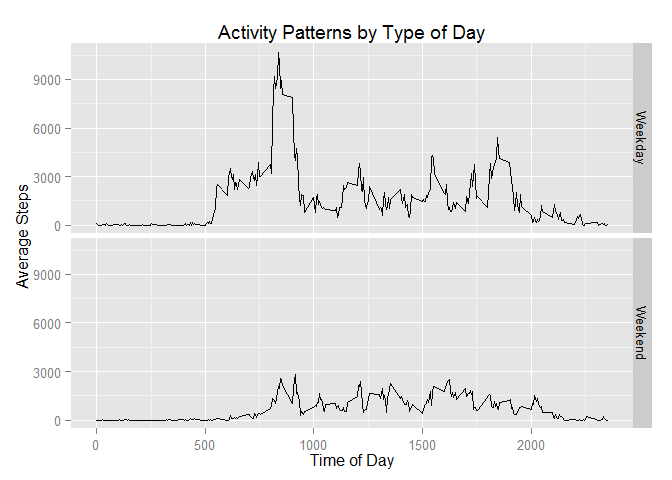
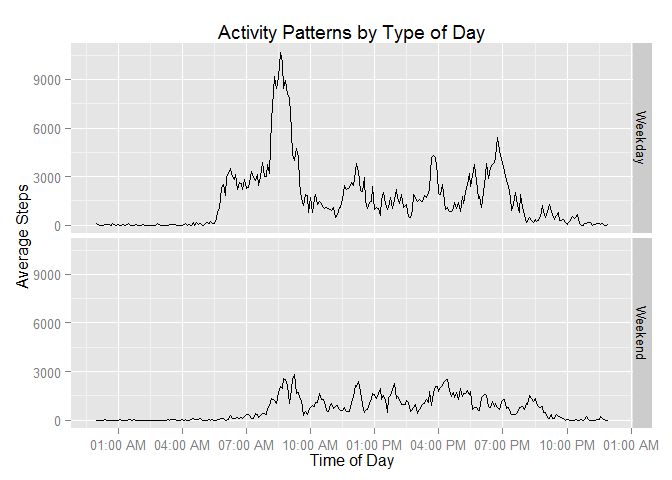
Changed graphs to treat interval as a time instead of an integer

diff --git a/PA1_template.html b/PA1_template.html
@@ -56,7 +56,7 @@ if (window.hljs && document.readyState && document.readyState === "complete") {
 
 
 <p>The following libraries are used in this analysis:</p>
-<pre class="r"><code>library(magrittr); library(stringr); library(dplyr); library(ggplot2)</code></pre>
+<pre class="r"><code>library(magrittr); library(stringr); library(dplyr); library(ggplot2); library(scales)</code></pre>
 <div id="loading-and-preprocessing-the-data" class="section level2">
 <h2>Loading and preprocessing the data</h2>
 <p>The following code loads the raw data and prepares it for analysis</p>
@@ -82,13 +82,14 @@ medianDailySteps &lt;- prettyNum(median(stepsPerDay$stepsPerDay, na.rm=TRUE), bi
 <div id="what-is-the-average-daily-activity-pattern" class="section level2">
 <h2>What is the average daily activity pattern?</h2>
 <p>The chart below presents the number of steps taken at each time of day averaged across all days in the data set. For comparison, the grand average across all times of day is included as a red horizontal line.</p>
-<pre class="r"><code>group_by(stepData, interval) %&gt;% summarise (timeAverage=mean(steps, na.rm=TRUE)) -&gt;
+<pre class="r"><code>group_by(stepData, interval) %&gt;%
+summarise(timeAverage=mean(steps, na.rm=TRUE)) -&gt;
     timeAverage
-plot(timeAverage$interval, timeAverage$timeAverage, type=&quot;l&quot;,
-     xlab=&quot;Time of Day (minutes past midnight)&quot;, 
+plot(strptime(str_pad(timeAverage$interval,width=4,pad=&quot;0&quot;),&quot;%H%M&quot;), timeAverage$timeAverage, type=&quot;l&quot;,
+     xlab=&quot;Time of Day&quot;, 
      ylab=&quot;Steps&quot;, main=&quot;Average Steps Taken by Time&quot;)
 abline(h=mean(timeAverage$timeAverage, na.rm=TRUE),col=&quot;red&quot;)</code></pre>
[2 lines of base64/hex data omitted]
 <pre class="r"><code>maxTimeSteps &lt;- round(max(timeAverage$timeAverage, na.rm=TRUE), 1)
 timeAverage$interval %&gt;% extract(which.max(timeAverage$timeAverage)) %&gt;%
     str_pad(width=4,pad=&quot;0&quot;) %&gt;% strptime(format=&quot;%H%M&quot;) %&gt;% 
@@ -138,10 +139,11 @@ medianDailyStepsI &lt;- prettyNum(median(stepsPerDay$stepsPerDay),big.mark=&quot
 <pre class="r"><code>stepDataImputed$typeOfDay=factor(NA,levels=c(&quot;Weekday&quot;,&quot;Weekend&quot;))
 stepDataImputed[stepDataImputed$dayOfWeek %in% c(&quot;Saturday&quot;,&quot;Sunday&quot;),&quot;typeOfDay&quot;] &lt;- &quot;Weekend&quot;
 stepDataImputed[is.na(stepDataImputed$typeOfDay),&quot;typeOfDay&quot;] &lt;- &quot;Weekday&quot;
-ggplot(stepDataImputed, aes(x=interval,y=steps)) + 
+ggplot(stepDataImputed, aes(x=strptime(str_pad(interval,width=4,pad=&quot;0&quot;),&quot;%H%M&quot;),y=steps)) + 
     stat_summary(fun.y=&quot;sum&quot;, geom=&quot;line&quot;) + facet_grid(typeOfDay~.) + 
-    labs(x=&quot;Time of Day&quot;, y=&quot;Average Steps&quot;) + ggtitle(&quot;Activity Patterns by Type of Day&quot;)</code></pre>
[1 lines of base64/hex data omitted]
+    labs(x=&quot;Time of Day&quot;, y=&quot;Average Steps&quot;) + ggtitle(&quot;Activity Patterns by Type of Day&quot;) + 
+    scale_x_datetime(labels= date_format(&quot;%I:%M %p&quot;),breaks=date_breaks(&quot;3 hours&quot;))</code></pre>
[1 lines of base64/hex data omitted]
 </div>
 
 

diff --git a/PA1_template.md b/PA1_template.md
@@ -3,7 +3,7 @@
 The following libraries are used in this analysis:
 
 ```r
-library(magrittr); library(stringr); library(dplyr); library(ggplot2)
+library(magrittr); library(stringr); library(dplyr); library(ggplot2); library(scales)
 ```
 
 ## Loading and preprocessing the data
@@ -46,10 +46,11 @@ The chart below presents the number of steps taken at each time of day averaged 
 
 
 ```r
-group_by(stepData, interval) %>% summarise (timeAverage=mean(steps, na.rm=TRUE)) ->
+group_by(stepData, interval) %>%
+summarise(timeAverage=mean(steps, na.rm=TRUE)) ->
     timeAverage
-plot(timeAverage$interval, timeAverage$timeAverage, type="l",
-     xlab="Time of Day (minutes past midnight)", 
+plot(strptime(str_pad(timeAverage$interval,width=4,pad="0"),"%H%M"), timeAverage$timeAverage, type="l",
+     xlab="Time of Day", 
      ylab="Steps", main="Average Steps Taken by Time")
 abline(h=mean(timeAverage$timeAverage, na.rm=TRUE),col="red")
 ```
@@ -123,9 +124,10 @@ The chart below compares daily acitivty patterns for weekdays versus weekends.
 stepDataImputed$typeOfDay=factor(NA,levels=c("Weekday","Weekend"))
 stepDataImputed[stepDataImputed$dayOfWeek %in% c("Saturday","Sunday"),"typeOfDay"] <- "Weekend"
 stepDataImputed[is.na(stepDataImputed$typeOfDay),"typeOfDay"] <- "Weekday"
-ggplot(stepDataImputed, aes(x=interval,y=steps)) + 
+ggplot(stepDataImputed, aes(x=strptime(str_pad(interval,width=4,pad="0"),"%H%M"),y=steps)) + 
     stat_summary(fun.y="sum", geom="line") + facet_grid(typeOfDay~.) + 
-    labs(x="Time of Day", y="Average Steps") + ggtitle("Activity Patterns by Type of Day")
+    labs(x="Time of Day", y="Average Steps") + ggtitle("Activity Patterns by Type of Day") + 
+    scale_x_datetime(labels= date_format("%I:%M %p"),breaks=date_breaks("3 hours"))
 ```
 
 ![](PA1_template_files/figure-html/patternComp-1.png) 
